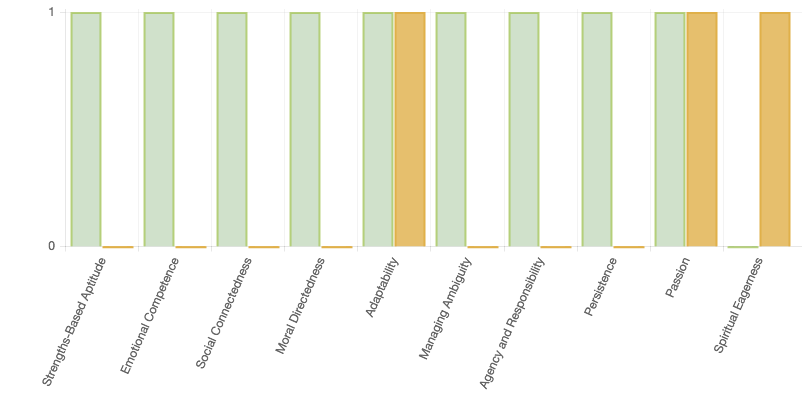
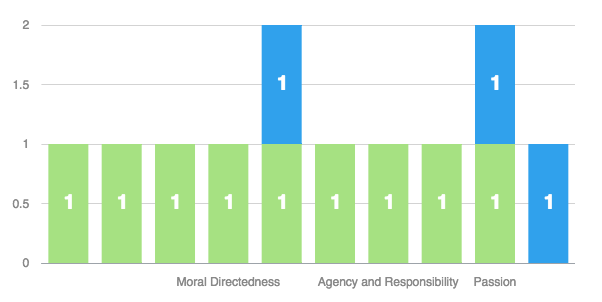
adding chart, still has to fix timeout without php setting

diff --git a/resources/views/front/manage/reports/chart.blade.php b/resources/views/front/manage/reports/chart.blade.php
@@ -19,8 +19,17 @@
     <script type="text/javascript" src="{{ asset("/public/front/libs/highcharts/highcharts.js") }}"></script>
 
 	<style>
-		#myChart { position: absolute; z-index: 10; border: 1px solid red; }
+		#myChart { position: absolute; z-index: 50; border: 1px solid red; }
 		#loader  { position: absolute; z-index: 20; width: 800px; height: 400px; top: 0; left: 0; padding: 100px 0 0 150px; font-family: 'Arial', sans-serif; background: #fff; }
+        .count{
+          position:absolute;
+          width:10px;
+          height:20px;
+          line-height:20px;
+          color:white;
+          font-weight:bold;
+          z-index: 55;
+          }
 	</style>
 
 </head>
@@ -29,7 +38,8 @@
 
 	<div id="loader">Generating report, please wait....</div>
 
-	<canvas id="myChart" height="400px" width="800px"></canvas>
+    <div id="myChart" style="height:300px; width:600px"></div>
+	<canvas id="canvasChart" height="300" width="600"></canvas>
 
 	{!! Form::open(['id' => 'form']) !!}
 
@@ -38,11 +48,22 @@
 	{!! Form::close() !!}
 
 	<script>
+
+    function parseSVG(s) {
+        var div= document.createElementNS('http://www.w3.org/1999/xhtml', 'div');
+        div.innerHTML= '<svg xmlns="http://www.w3.org/2000/svg">'+s+'</svg>';
+        var frag= document.createDocumentFragment();
+        while (div.firstChild.firstChild)
+            frag.appendChild(div.firstChild.firstChild);
+        return frag;
+    }
+
         $(document).ready(function() {
-               /*Morris.Bar({
+            var graphData = {!! json_encode($gdata) !!};
+               var bar = Morris.Bar({
                 element: 'myChart',
-                data: {!! json_encode($gdata) !!},
-                xkey: "categories",
+                data: graphData,
+                xkey: 'categories',
                 parseTime: false,
                 xLabels: "competencies",
                 ykeys: ['strong','vulnerable'],
@@ -51,11 +72,69 @@
                 xLabelMargin: 10,
                 hideHover: 'auto',
                 goals: [0,0],
+                stacked: true,
                 goalLineColors:["#9da3a9"],
                 barColors: ["#a6e182", "#30a1ec", "#76bdee", "#c4dafe"]
-            });*/
+            });
 
-               /* $('#myChart').highcharts({
+        var barWidth=(($('#myChart').width()/10)*(0.8))/2;
+
+        //now each thru each bar (rect)
+
+        jQuery('rect').each(function (i) {
+            var rect = i%2,
+                i = Math.floor(i/2),
+                pos=$(this).offset(),
+                top=pos.top;
+              
+            top-=10; //originate at the top of the bar
+
+          //get the height of the bar
+          var barHeight=bar.bars[i];
+            
+            if (barHeight[0] == 0 && barHeight[1] == 0) {
+                top = -999999;
+            } else if (barHeight[0] == barHeight[1]) {
+                if (rect == 0) {
+                top+=barHeight[rect]/2; //so we can now stick the number in the vertical-center of the bar as desired
+                } else {
+                    top = -9999999;
+                }
+            } else if (barHeight[0] == 0) {
+                if (rect == 0) {
+                    top=-999999999; //so we can now stick the number in the vertical-center of the bar as desired
+                } else {
+                    top+= barHeight[rect]/2;
+                }
+            } else {
+                if (rect == 0) {
+                    top+=barHeight[rect]/2; //so we can now stick the number in the vertical-center of the bar as desired
+                } else {
+                    top+= (barHeight[rect]-barHeight[0])/2;
+                }
+            }
+            
+
+            var left=pos.left;
+          //move it over a bit
+          left+=barWidth/2; 
+          //-size of element...
+          // left-=5;//should approximately be horizontal center
+
+          var val = "";
+
+            if (rect) {
+                val = graphData[i].vulnerable; //get the count
+            } else {
+                val = graphData[i].strong; //get the count
+            }
+
+            var div = '<text x="'+left+'" y="'+top+'" text-anchor="middle" font="20px &quot;Arial&quot; bold" stroke="none" fill="#FFFFFF" style="-webkit-tap-highlight-color: rgba(0, 0, 0, 0); text-anchor: middle; font-style: normal; font-variant: normal; font-weight: bold; font-stretch: normal; font-size: 20px; line-height: normal; font-family: sans-serif;" font-size="20px" font-family="sans-serif" font-weight="bold" transform="matrix(1,0,0,1,0,6)">'+val+'</text>'; 
+          document.getElementsByTagName('svg')[0].appendChild(parseSVG(div)); //stick it into the dom
+
+        });           
+
+              /* $('#myChart').highcharts({
                     chart: {
                         type: 'bar'
                     },
@@ -69,23 +148,8 @@
                     },
                     series: {!! json_encode($gdata) !!},
                     credits: { enabled:false }
-                });
-                 Highcharts.setOptions({
-                    chart: {
-                        backgroundColor: {
-                            linearGradient: [0, 0, 500, 500],
-                            stops: [
-                                [0, 'rgb(224, 176, 73)'],
-                                [1, 'rgb(159, 194, 77)']
-                                ]
-                        },
-                        borderWidth: 2,
-                        plotBackgroundColor: 'rgba(255, 255, 255, .9)',
-                        plotShadow: true,
-                        plotBorderWidth: 1
-                    }
                 });*/
-	        var barData = {
+	        /*var barData = {
                 labels: {!! json_encode($categories) !!},
                 datasets: {!! json_encode($gdata) !!}
             };
@@ -106,17 +170,22 @@
 
 
             var ctx = document.getElementById("myChart").getContext("2d");
-            var myNewChart = new Chart(ctx).Bar(barData, barOptions);
+            var myNewChart = new Chart(ctx).Bar(barData, barOptions);*/
 
             setTimeout(function()
             {
-                var canvas = $('#myChart').get(0);
+                var oSerializer = new XMLSerializer(),
+                    sXML = oSerializer.serializeToString($('#myChart').find('svg').get(0));
+
+                canvg($('#canvasChart').get(0), sXML,{ ignoreMouse: true, ignoreAnimation: true })
+
+                var canvas = $('#canvasChart').get(0);
 
                 var dataURL = canvas.toDataURL();
 
     			$('#data').val(dataURL);
     			$('#form').submit();
-            }, 1000);
+            }, 500);
         });
     </script>
 	

diff --git a/app/Http/Controllers/Manage/SurveyController.php b/app/Http/Controllers/Manage/SurveyController.php
@@ -96,17 +96,15 @@ class SurveyController extends Controller {
 			$strong = [];
 			$vulnerable = [];
 
-		    foreach ($survey->stats as $stat)
-		    {
-				$strong[]     = (int)$stat->strong_count;
-				$vulnerable[] = (int)$stat->vulnerable_count;
-				$categories[] = $stat->grouping->title;
-		    }
+		      foreach ($survey->stats as $stat)
+			   {
+				$gdata[]=[
+				'categories'=>$stat->grouping->title,
+				'strong' => (int)$stat->strong_count,
+				'vulnerable' => (int)$stat->vulnerable_count];
+			   }
 
-		    $data['gdata'] = [
-		    	['label' => 'Strong', 	  'data' => $strong, 	 'fillColor' => "rgba(159,194,148,0.5)",  'strokeColor' => "rgba(159,194,77,0.7)", 'pointColor' => "rgba(159,194,77,1)", 	'pointStrokeColor' => "#fff", 'pointHighlightFill' => "#fff", 'pointHighlightStroke' => "rgba(159,194,77,1)",],
-		    	['label' => 'Vulnerable', 'data' => $vulnerable, 'fillColor' => "rgba(224,176,73,0.8)", 'strokeColor' => "rgba(224,176,73,1)",  'pointColor' => "rgba(224,176,73,1)", 	'pointStrokeColor' => "#fff", 'pointHighlightFill' => "#fff", 'pointHighlightStroke' => "rgba(224,176,73,1)",],
-		    ];
+ 			 $data['gdata'] = $gdata;
 
 		    $data['categories'] = $categories;
 
@@ -121,10 +119,11 @@ class SurveyController extends Controller {
 		
 		    $data['chart'] = $filename;
 
-			//return \View::make('front.manage.reports.impact', $data)->render();
+			// return \View::make('front.manage.reports.impact', $data)->render();
 			
 			$pdf = \PDF::loadView('front.manage.reports.impact', $data);
 			$pdf->setPaper('letter');
+
 			return $pdf->stream();
 		}
 	}
